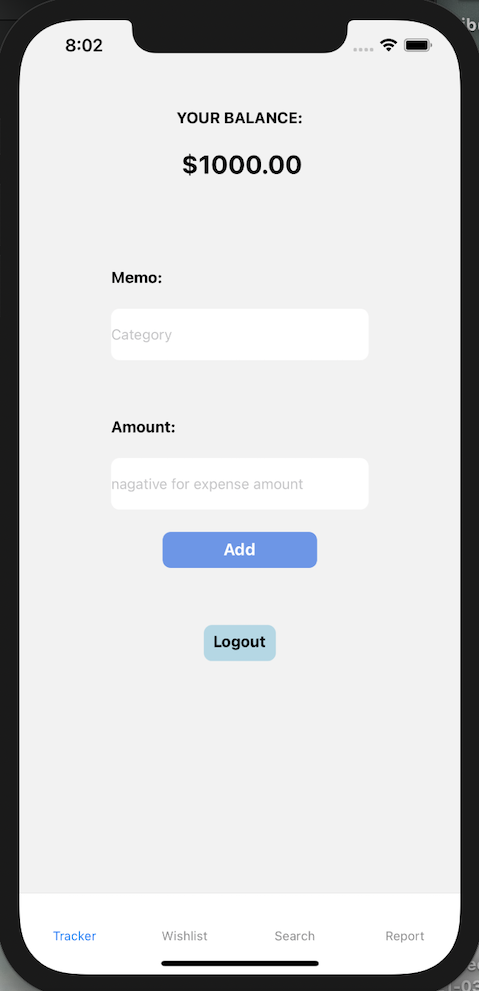
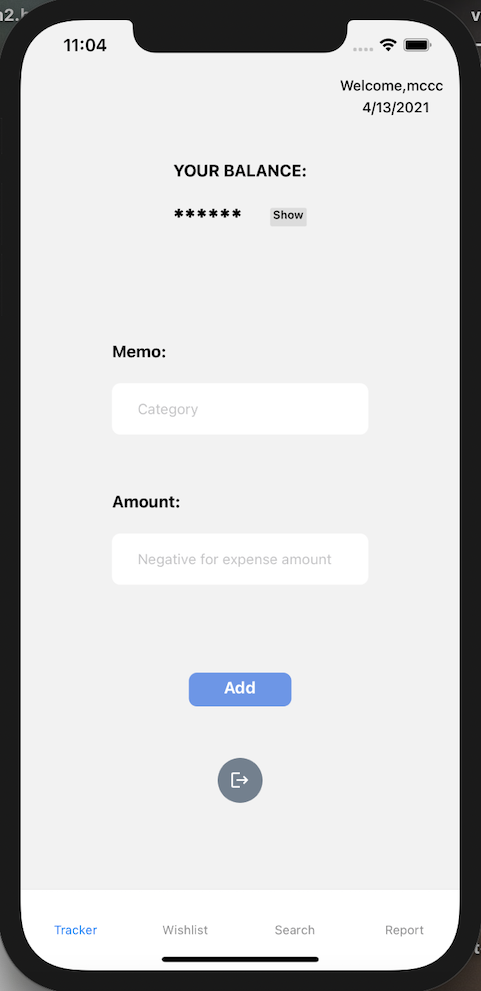
Update ManualTestPlan and images

diff --git a/ManualTestPlan.md b/ManualTestPlan.md
@@ -1,3 +1,4 @@
+## Manual Test plan (updated in week2)
 ## Prerequisite
 
 #### The following OS should be used for testing
@@ -23,8 +24,6 @@
 
 - cd sp21-cs242-project
 
-- Open the project in VSCode
-
 - Make sure you have React Native packages dependencies installed
   
 
@@ -40,7 +39,7 @@
 
 ![](img/p0.png)
 
-- You can run the App on an iOS simulator using XCode or Web Server
+- You can run the App on an iOS simulator using XCode.
 
 - This is the main screen
 
@@ -67,6 +66,7 @@ You will receive the notification like this. You should click **OK** and re-ente
 
 You will receive the notification like this. You should click **OK** and re-enter
 
+
 - If you enter a valid username and password and click **SIGN UP**
 
 *You will be guided to the main page. And your information will be inserted into the Firebase.*
@@ -75,6 +75,12 @@ You will receive the notification like this. You should click **OK** and re-ente
 ### Login
 
 - If you've already registered. You can go to the **Login** Screen and enter username and password. Password is text secured.
+
+- If you enter a username that has not been registered before
+
+![](img/p5.png)
+
+You will receive the notification like this.
 
 - If your password does not match your username as registered before
 
@@ -93,15 +99,56 @@ You will receive the notification like this. You should click **OK** and re-ente
 
 You can see there are four tabs in the bottom, each for the *expense tracker*, *wish list*, *search*, and *Report*.
 
-You can see the **YOUR BALANCE** on the top showing your total balance. And the **Memo** below is used for the user to input the Category of a transaction. The **Amount** is for the user to input the amount of a transaction. For example *300* means an income of $300, and *-500* means an expense of $500. There's also a **Logout** button for logging out. 
+You can see the **YOUR BALANCE** on the top showing your total balance, and the current date. The **Memo** below is for the user to input the Category of a transaction. The **Amount** is for the user to input the amount of a transaction. There's also a **Logout** button for logging out. 
 
 - If you click the **Logout** button
-
-![](img/p8.png)
 
 You will be guided back to the login page.
 
 - Click **Add** to add the expense/income to the tracker
 
+For example *300* means an income of $300, and *-500* means an expense of $500. Certain amount will be added/deducted from the balance.
+
 ---
-### TO DO 
+
+### Expense Tracker
+
+- The balance amount is hided at first. If you click the **Show** Button
+
+![](img/p8.png)
+
+The exact amount of balance will be revealed.
+
+---
+
+### Wish List
+
+- Click the **Wishlist** tab, you will be brought to the main Wish list screen.
+
+![](img/p9.png)
+
+The default product info is all empty. And the image is the *Amazon Logo*. You can enter url in the input box to add stuff to your wishlist.
+
+- If you enter an invalid url
+
+![](img/p10.png)
+
+You will receive an alert message.
+
+- If you enter a valid url
+
+![](img/p11.png)
+
+After a short loading scene, the information of the product of your url will be rendered in the wishlist screen. And certain information will be stored into database. 
+
+- If you click the image
+
+![](img/p12.png)
+
+After a short loading scene, you will be guided to the official Amazon website of the wish list product.
+
+- You can click the **Back** button on the top right corner to go back to the wishlist screen.
+
+---
+
+### TO DO
